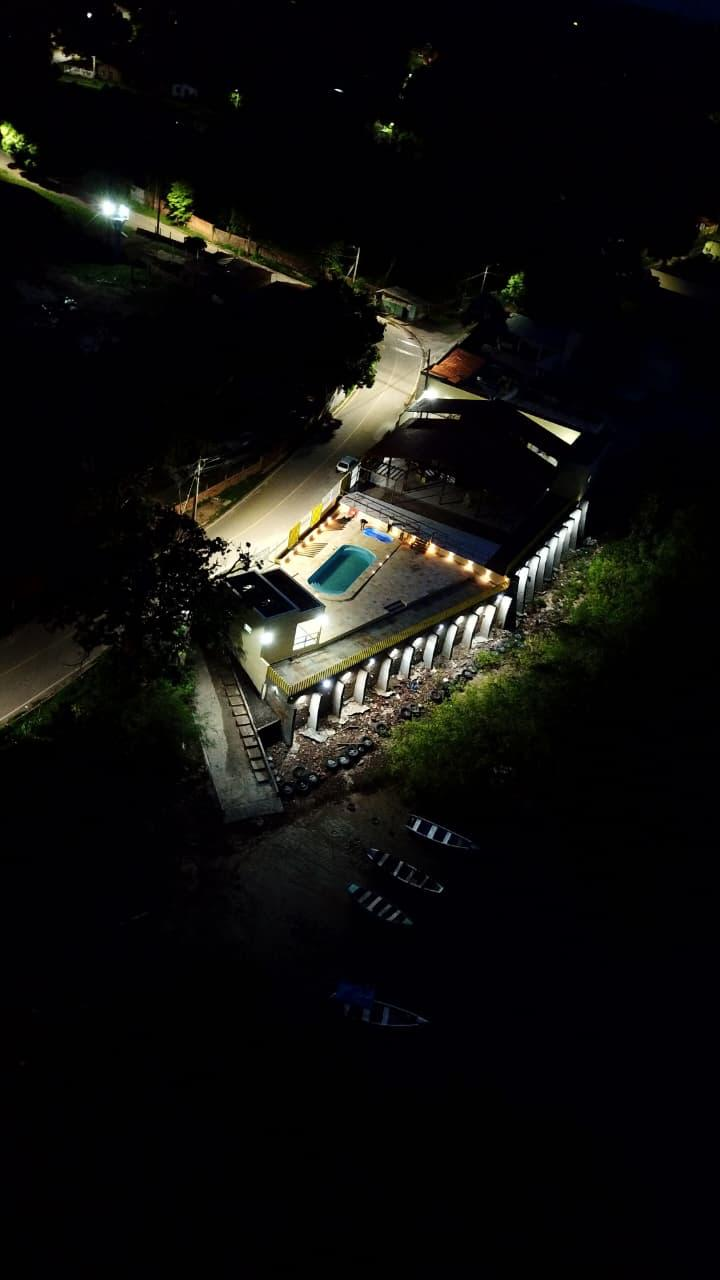
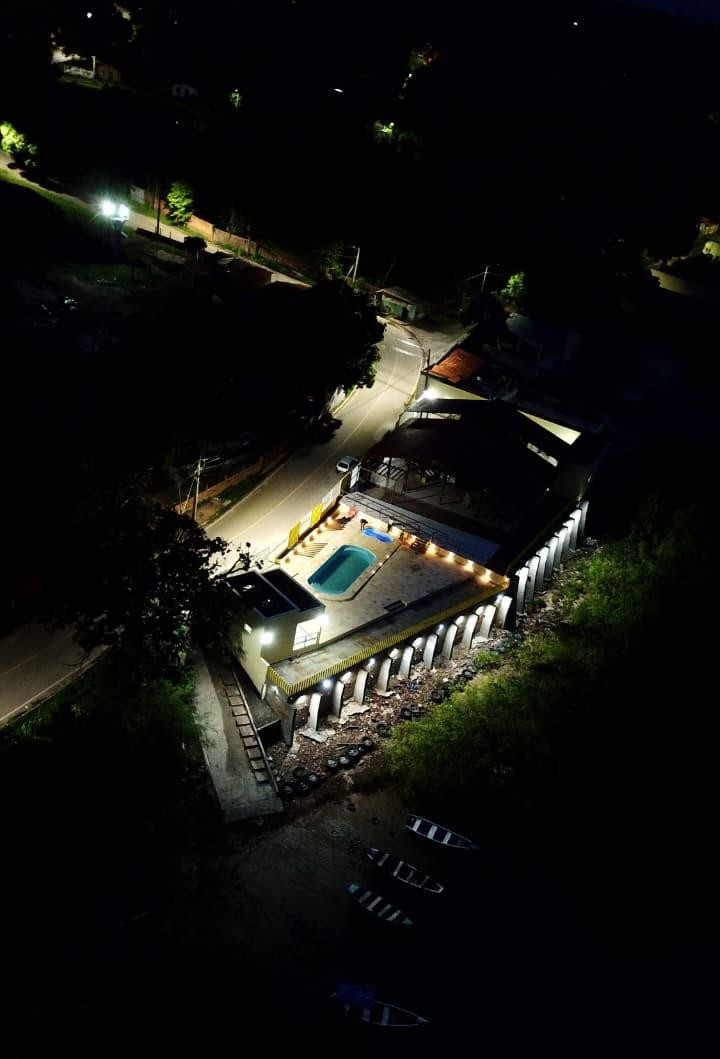
alteracao galeria

diff --git a/src/components/GallerySection.tsx b/src/components/GallerySection.tsx
@@ -2,39 +2,39 @@ import { useState, useRef, useEffect } from "react";
 import { createPortal } from "react-dom";
 import { motion, AnimatePresence } from "framer-motion";
 import { X, ChevronLeft, ChevronRight } from "lucide-react";
-import heroImg from "@/assets/Imagem1.jpg";
-import aboutImg from "@/assets/Cópia-de-IMG_2804.avif";
-import gallery1 from "@/assets/melhoria_vista_cais.png";
-import gallery2 from "@/assets/Imagem8-copy.jpg";
-import gallery3 from "@/assets/vista_area_tarde.jpeg";
-import dish1 from "@/assets/Cópia-de-IMG_2790.avif";
+import heroImg from "@/assets/guarasteto.jpg";
+import aboutImg from "@/assets/vistasol.jpg";
+import gallery1 from "@/assets/drinks.png";
+import gallery2 from "@/assets/IMG_2808.jpg";
+import gallery3 from "@/assets/faixada.jpeg";
+import dish1 from "@/assets/vertical.png";
 import guara3 from "@/assets/guara-3d-3.png";
 import vista_salao from "@/assets/IMG_2822.jpg";
-import dish3 from "@/assets/DJI_0328.jpg"; // Using an existing dessert image as placeholder
-import dish4 from "@/assets/sorvete_regional.png"; // Using an existing drink image as placeholder
+import dish3 from "@/assets/vista_area_noturna.jpeg"; // Using an existing dessert image as placeholder
+import dish4 from "@/assets/pratos.png"; // Using an existing drink image as placeholder
 
 import gsap from "gsap";
 import { ScrollTrigger } from "gsap/ScrollTrigger";
 import { useGSAP } from "@gsap/react";
 const images = [
   // 0: Top Left [2x2]
-  { src: heroImg, title: "Salão Principal", isCenter: false, className: "col-span-2 row-span-2 col-start-1 row-start-1", moveX: "-30vw", moveY: "-30vh" },
-  // 1: Top Center [2x1] (Gap top)
-  { src: aboutImg, title: "Terraço ao Pôr do Sol", isCenter: false, className: "col-span-2 row-span-1 col-start-3 row-start-2", moveX: "0", moveY: "-30vh" },
+  { src: heroImg, title: "Restaurante Guarás", isCenter: false, className: "col-span-2 row-span-2 col-start-1 row-start-1", moveX: "-30vw", moveY: "-30vh" },
+  // 1: Top Center [2x2]
+  { src: aboutImg, title: "Terraço ao Pôr do Sol", isCenter: false, className: "col-span-2 row-span-2 col-start-3 row-start-1", moveX: "0", moveY: "-30vh" },
   // 2: Top Right [2x3]
   { src: gallery1, title: "Bar & Drinks", isCenter: false, className: "col-span-2 row-span-3 col-start-5 row-start-1", moveX: "30vw", moveY: "-30vh" },
   // 3: Middle Left [2x3]
-  { src: gallery2, title: "Jantar à Luz de Velas", isCenter: false, className: "col-span-2 row-span-3 col-start-1 row-start-3", moveX: "-30vw", moveY: "0" },
+  { src: gallery2, title: "Natureza", isCenter: false, className: "col-span-2 row-span-3 col-start-1 row-start-3", moveX: "-30vw", moveY: "0" },
   // 4: CENTER [2x2] -> Crucial: col 3-4, row 3-4 makes it the exact center of a 6x6 grid.
-  { src: gallery3, title: "Vista do Mangue", isCenter: true, className: "col-span-2 row-span-2 col-start-3 row-start-3", moveX: "0", moveY: "0" },
-  // 5: Middle Right [1x2]
-  { src: dish1, title: "Nossos Pratos", isCenter: false, className: "col-span-1 row-span-2 col-start-5 row-start-4", moveX: "30vw", moveY: "0" },
+  { src: gallery3, title: "Nosso espaço", isCenter: true, className: "col-span-2 row-span-2 col-start-3 row-start-3", moveX: "0", moveY: "0" },
+  // 5: Middle Right [1x3]
+  { src: dish1, title: "Sossego", isCenter: false, className: "col-span-1 row-span-3 col-start-5 row-start-4", moveX: "30vw", moveY: "0" },
   // 6: Bottom Right 1 [1x3]
-  { src: vista_salao, title: "Chef's Special", isCenter: false, className: "col-span-1 row-span-3 col-start-6 row-start-4", moveX: "30vw", moveY: "30vh" },
+  { src: vista_salao, title: "Vista do Salão", isCenter: false, className: "col-span-1 row-span-3 col-start-6 row-start-4", moveX: "30vw", moveY: "30vh" },
   // 7: Bottom Center [2x2]
-  { src: dish4, title: "Detalhes", isCenter: false, className: "col-span-2 row-span-2 col-start-3 row-start-5", moveX: "0", moveY: "30vh" },
+  { src: dish4, title: "Nossos Pratos", isCenter: false, className: "col-span-2 row-span-2 col-start-3 row-start-5", moveX: "0", moveY: "30vh" },
   // 8: Bottom Left gap [2x1]
-  { src: dish3, title: "Clima Noturno", isCenter: false, className: "col-span-2 row-span-1 col-start-1 row-start-6", moveX: "-30vw", moveY: "30vh" },
+  { src: dish3, title: "Clima Noturno", isCenter: false, className: "col-span-2 row-span-1 col-start-1 row-start-6", moveX: "-30vw", moveY: "20vh" },
 ];
 
 gsap.registerPlugin(ScrollTrigger);
